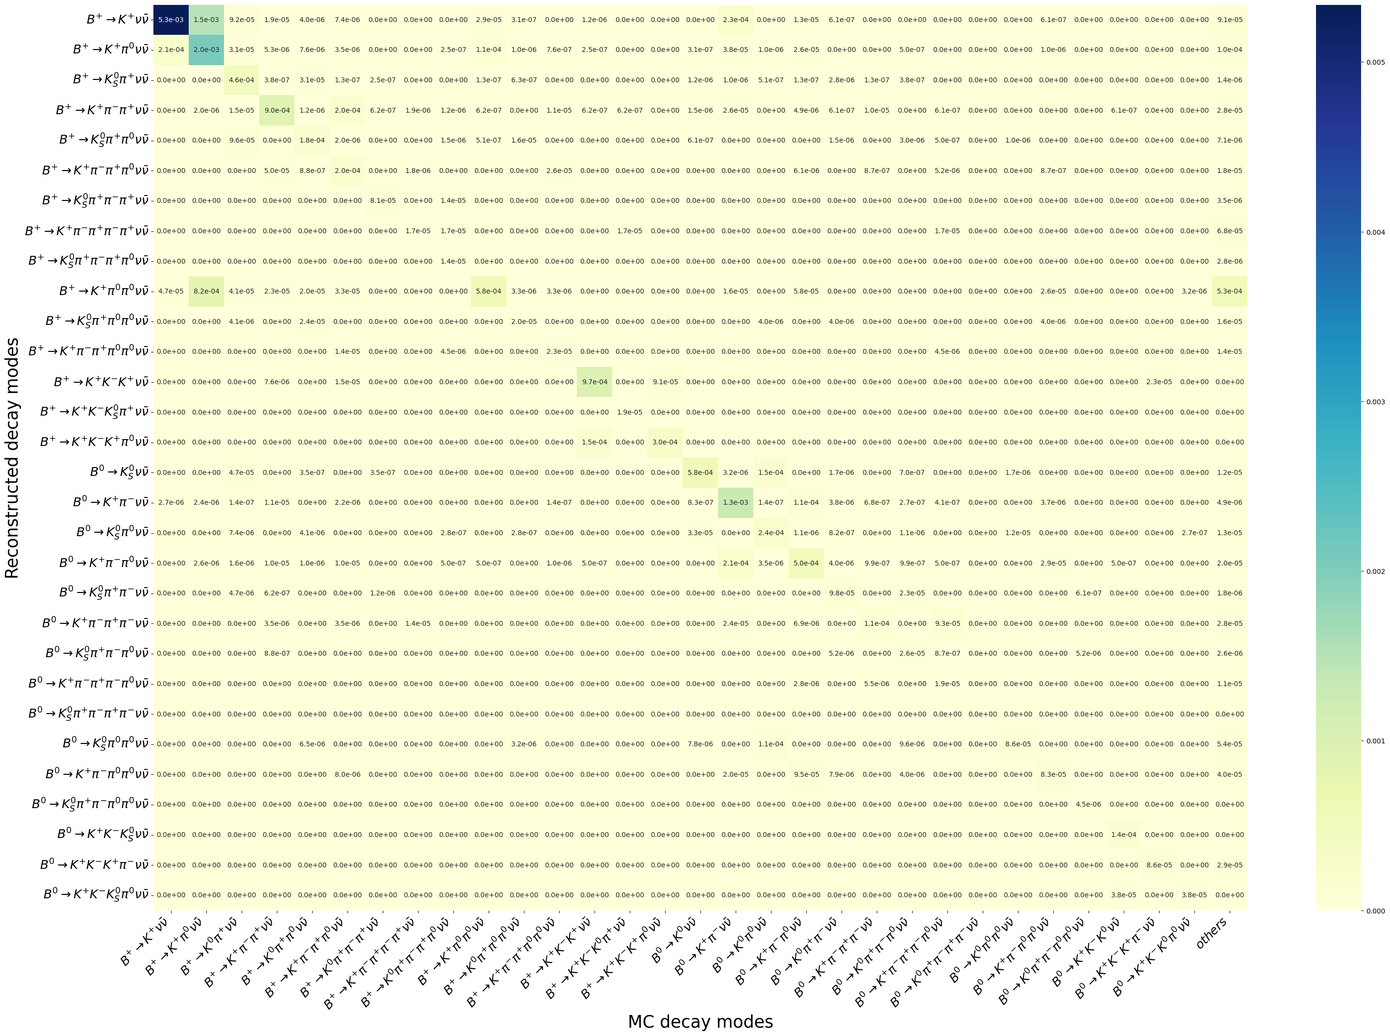
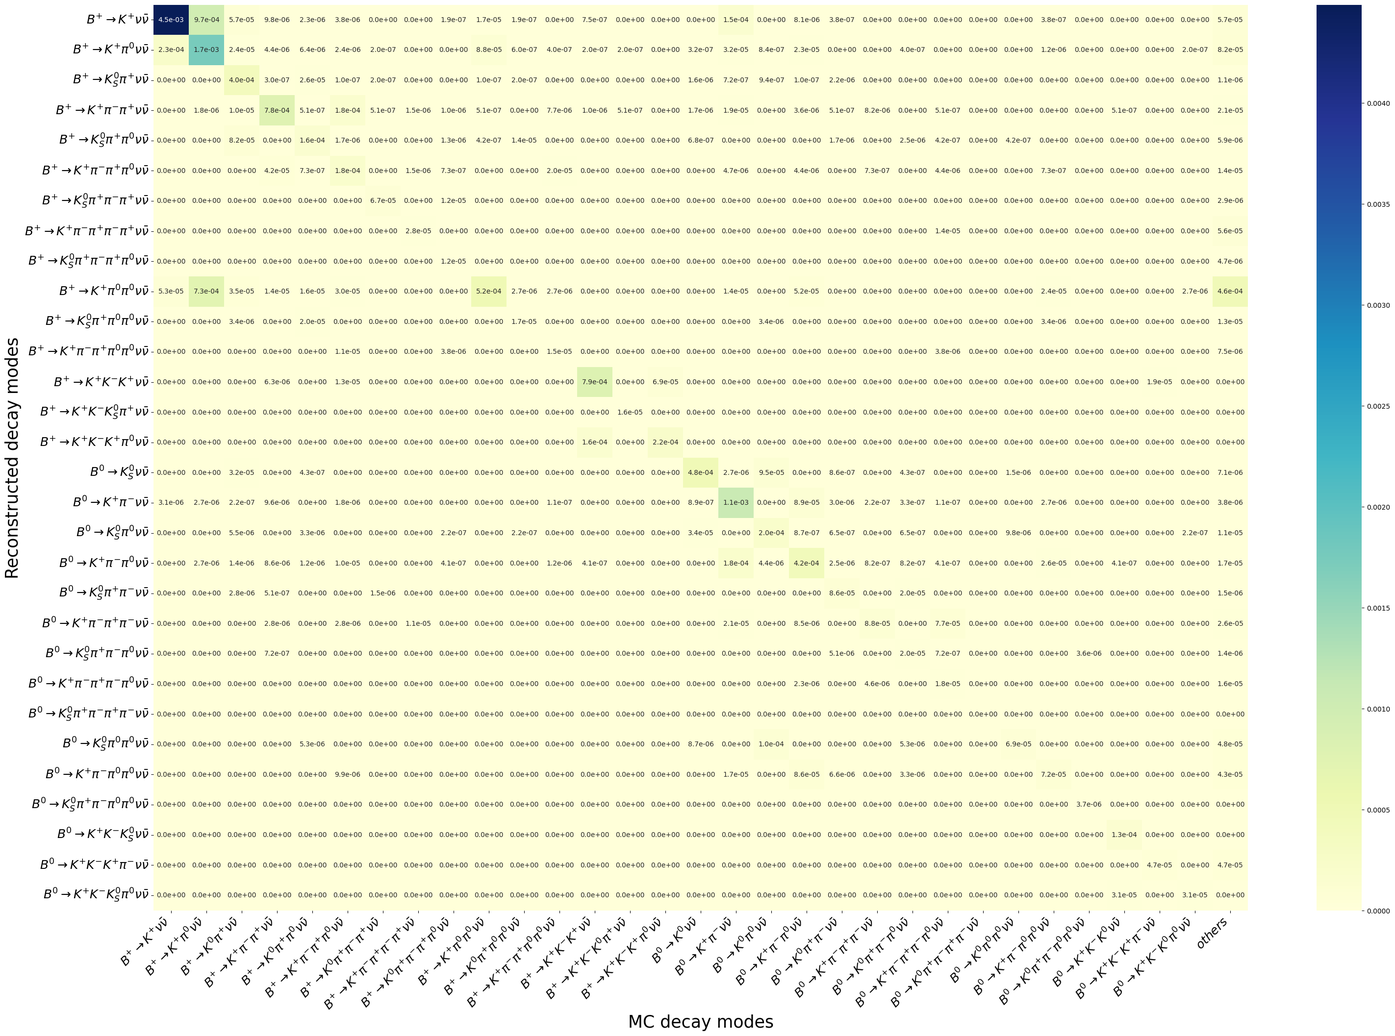
update THStack_plot

diff --git a/FastBDT/THStack_plot.c b/FastBDT/THStack_plot.c
@@ -14,47 +14,35 @@ revise void Loader::ConvertIntoSeparateDataFile(std::string output_name, double 
 # include <algorithm>
 # include <float.h>
 
-// arXiv:1409.4557v2
+// arXiv:1409.4557v2, PhysRevD.107.014511
 # define TB0 1.5195 // (Table. 1)
 # define TBp 1.6384 // (Table. 1)
-# define BR_Kplus_nunubar 0.00000398 // (eq. 10)
+# define BR_Kplus_nunubar 0.000005044 // Table VI = (5.044 +- 0.402) * 10^{-6}
 # define BR_K0star_nunubar 0.00000919 // (eq. 11)
-# define BR_K0_nunubar (BR_Kplus_nunubar*TB0/TBp) // under (eq. 15)
+# define BR_K0_nunubar (BR_Kplus_nunubar*TB0/TBp) // under (eq. 15). In Table VI = (4.6669 +- 0.3707) * 10^{-6}
 # define BR_Kplusstar_nunubar (BR_K0star_nunubar*TBp/TB0) // under (eq. 15)
 # define BR_Xs_nunubar 0.000029 // (eq. 23)
 # define BR_Xsu_nonresonant_nunubar (BR_Xs_nunubar - BR_Kplus_nunubar - BR_Kplusstar_nunubar)
 # define BR_Xsd_nonresonant_nunubar (BR_Xs_nunubar - BR_K0_nunubar - BR_K0star_nunubar)
 
-// https://confluence.desy.de/pages/viewpage.action?pageId=107054222
-# define N_BpBp_1invab 565400000.0
-# define N_B0B0_1invab 534600000.0
+// according to DIRAC
+# define N_BpBp_1invab 540000000.0
+# define N_B0B0_1invab 510000000.0
 
-# define N_Kplus_nunubar_1invab (2.0 * N_BpBp_1invab * BR_Kplus_nunubar)
-# define N_Kplusstar_nunubar_1invab (2.0 * N_BpBp_1invab * BR_Kplusstar_nunubar)
-# define N_Xsu_nonresonant_nunubar_1invab (2.0 * N_BpBp_1invab * BR_Xsu_nonresonant_nunubar)
-# define N_K0_nunubar_1invab (2.0 * N_B0B0_1invab * BR_K0_nunubar)
-# define N_K0star_nunubar_1invab (2.0 * N_B0B0_1invab * BR_K0star_nunubar)
-# define N_Xsd_nunubar_1invab (2.0 * N_B0B0_1invab * BR_Xsd_nonresonant_nunubar)
+# define BR_BpBp 0.514
+# define BR_B0B0 0.486
 
-/*
-// my MC sample number
-# define N_Kplus_nunubar 10000000.0
-# define N_K0_nunubar 10000000.0
-# define N_Kplusstar_nunubar 10000000.0
-# define N_K0star_nunubar 10000000.0
-# define N_Xsu_nonresonant_nunubar 50000000.0
-# define N_Xsd_nonresonant_nunubar 50000000.0
+// https://confluence.desy.de/pages/viewpage.action?spaceKey=BI&title=Conference+readiness
+# define N_BB_LS1 387100000.0 // NBB = (387.1 +/- 5.6) x 10^6
 
-// scale factor for each MC sample
-# define Scale_Kplus (N_Kplus_nunubar_1invab/N_Kplus_nunubar)
-# define Scale_Kplusstar (N_Kplusstar_nunubar_1invab/N_Kplusstar_nunubar)
-# define Scale_Xsu_nonresonant (N_Xsu_nonresonant_nunubar_1invab/N_Xsu_nonresonant_nunubar)
-# define Scale_K0 (N_K0_nunubar_1invab/N_K0_nunubar)
-# define Scale_K0star (N_K0star_nunubar_1invab/N_K0star_nunubar)
-# define Scale_Xsd_nonresonant (N_Xsd_nunubar_1invab/N_Xsd_nonresonant_nunubar)
-*/
+# define N_Kplus_nunubar_LS1 (2.0 * N_BB_LS1 * (BR_BpBp/(BR_BpBp+BR_B0B0)) * BR_Kplus_nunubar)
+# define N_Kplusstar_nunubar_LS1 (2.0 * N_BB_LS1 * (BR_BpBp/(BR_BpBp+BR_B0B0)) * BR_Kplusstar_nunubar)
+# define N_Xsu_nonresonant_nunubar_LS1 (2.0 * N_BB_LS1 * (BR_BpBp/(BR_BpBp+BR_B0B0)) * BR_Xsu_nonresonant_nunubar)
+# define N_K0_nunubar_LS1 (2.0 * N_BB_LS1 * (BR_B0B0/(BR_BpBp+BR_B0B0)) * BR_K0_nunubar)
+# define N_K0star_nunubar_LS1 (2.0 * N_BB_LS1 * (BR_B0B0/(BR_BpBp+BR_B0B0)) * BR_K0star_nunubar)
+# define N_Xsd_nunubar_LS1 (2.0 * N_BB_LS1 * (BR_B0B0/(BR_BpBp+BR_B0B0)) * BR_Xsd_nonresonant_nunubar)
 
-// SIGNAL MC sample number
+// SIGNAL MC sample number befor skimming
 # define N_Kplus_train 7039000.0
 # define N_K0_train 7166624.0
 # define N_Kplusstar_train 7039000.0
@@ -68,49 +56,49 @@ revise void Loader::ConvertIntoSeparateDataFile(std::string output_name, double 
 # define N_Xsu_nonresonant_test 14805000.0
 # define N_Xsd_nonresonant_test 15059570.0
 
-// scale factor for SIGNAL MC sample (364.436 - 2.763 = 361.673/fb)
-# define Scale_Kplus_train (0.361673 * N_Kplus_nunubar_1invab/N_Kplus_train)
-# define Scale_Kplusstar_train (0.361673 * N_Kplusstar_nunubar_1invab/N_Kplusstar_train)
-# define Scale_Xsu_nonresonant_train (0.361673 * N_Xsu_nonresonant_nunubar_1invab/N_Xsu_nonresonant_train)
-# define Scale_K0_train (0.361673 * N_K0_nunubar_1invab/N_K0_train)
-# define Scale_K0star_train (0.361673 * N_K0star_nunubar_1invab/N_K0star_train)
-# define Scale_Xsd_nonresonant_train (0.361673 * N_Xsd_nunubar_1invab/N_Xsd_nonresonant_train)
-# define Scale_Kplus_test (0.361673 * N_Kplus_nunubar_1invab/N_Kplus_test)
-# define Scale_Kplusstar_test (0.361673 * N_Kplusstar_nunubar_1invab/N_Kplusstar_test)
-# define Scale_Xsu_nonresonant_test (0.361673 * N_Xsu_nonresonant_nunubar_1invab/N_Xsu_nonresonant_test)
-# define Scale_K0_test (0.361673 * N_K0_nunubar_1invab/N_K0_test)
-# define Scale_K0star_test (0.361673 * N_K0star_nunubar_1invab/N_K0star_test)
-# define Scale_Xsd_nonresonant_test (0.361673 * N_Xsd_nunubar_1invab/N_Xsd_nonresonant_test)
+// scale factor for SIGNAL MC sample until LS1
+# define Scale_Kplus_train (N_Kplus_nunubar_LS1/N_Kplus_train)
+# define Scale_Kplusstar_train (N_Kplusstar_nunubar_LS1/N_Kplusstar_train)
+# define Scale_Xsu_nonresonant_train (N_Xsu_nonresonant_nunubar_LS1/N_Xsu_nonresonant_train)
+# define Scale_K0_train (N_K0_nunubar_LS1/N_K0_train)
+# define Scale_K0star_train (N_K0star_nunubar_LS1/N_K0star_train)
+# define Scale_Xsd_nonresonant_train (N_Xsd_nunubar_LS1/N_Xsd_nonresonant_train)
+# define Scale_Kplus_test (N_Kplus_nunubar_LS1/N_Kplus_test)
+# define Scale_Kplusstar_test (N_Kplusstar_nunubar_LS1/N_Kplusstar_test)
+# define Scale_Xsu_nonresonant_test (N_Xsu_nonresonant_nunubar_LS1/N_Xsu_nonresonant_test)
+# define Scale_K0_test (N_K0_nunubar_LS1/N_K0_test)
+# define Scale_K0star_test (N_K0star_nunubar_LS1/N_K0star_test)
+# define Scale_Xsd_nonresonant_test (N_Xsd_nunubar_LS1/N_Xsd_nonresonant_test)
 
 // BKG MC sample number (0.8/ab for BB, 1.0/ab for qq)
-# define N_CHG_train 32042497.0
-# define N_MIX_train 24693710.0
-# define N_UUBAR_train 94447089.0
-# define N_DDBAR_train 22664556.0
-# define N_SSBAR_train 19244661.0
-# define N_CHARM_train 107541168.0
-# define N_CHG_test 48052238.0
-# define N_MIX_test 37030486.0
-# define N_UUBAR_test 141671998.0
-# define N_DDBAR_test 34114182.0
-# define N_SSBAR_test 28859338.0
-# define N_CHARM_test 161280679.0
+# define N_CHG_test 32042497.0
+# define N_MIX_test 24693710.0
+# define N_UUBAR_test 94447089.0
+# define N_DDBAR_test 22664556.0
+# define N_SSBAR_test 19244661.0
+# define N_CHARM_test 107541168.0
+# define N_CHG_train 48052238.0
+# define N_MIX_train 37030486.0
+# define N_UUBAR_train 141671998.0
+# define N_DDBAR_train 34114182.0
+# define N_SSBAR_train 28859338.0
+# define N_CHARM_train 161280679.0
 
-// new scale factor for BKG MC sample with additional 1/ab (364.436 - 2.763 = 361.673/fb)
-# define Scale_CHG_train (0.361673/((N_CHG_train/(N_CHG_train + N_CHG_test))*0.8+1.0))
-# define Scale_MIX_train (0.361673/((N_MIX_train/(N_MIX_train + N_MIX_test))*0.8+1.0))
+// new scale factor for BKG MC sample with additional 1/ab (364.436 - 2.763 = 361.673/fb), until LS1
+# define Scale_CHG_train ((N_BB_LS1* (BR_BpBp / (BR_BpBp + BR_B0B0))) / (0.8 * N_BpBp_1invab * (N_CHG_train / (N_CHG_train + N_CHG_test)) + N_BpBp_1invab))
+# define Scale_MIX_train ((N_BB_LS1* (BR_B0B0 / (BR_BpBp + BR_B0B0))) / (0.8 * N_B0B0_1invab * (N_MIX_train / (N_MIX_train + N_MIX_test)) + N_B0B0_1invab))
 # define Scale_UUBAR_train (0.361673/((N_UUBAR_train/(N_UUBAR_train + N_UUBAR_test))*1.0))
 # define Scale_DDBAR_train (0.361673/((N_DDBAR_train/(N_DDBAR_train + N_DDBAR_test))*1.0))
 # define Scale_SSBAR_train (0.361673/((N_SSBAR_train/(N_SSBAR_train + N_SSBAR_test))*1.0))
 # define Scale_CHARM_train (0.361673/((N_CHARM_train/(N_CHARM_train + N_CHARM_test))*1.0))
-# define Scale_CHG_test (0.361673/((N_CHG_test/(N_CHG_train + N_CHG_test))*0.8+1.0))
-# define Scale_MIX_test (0.361673/((N_MIX_test/(N_MIX_train + N_MIX_test))*0.8+1.0))
+# define Scale_CHG_test ((N_BB_LS1* (BR_BpBp / (BR_BpBp + BR_B0B0))) / (0.8 * N_BpBp_1invab * (N_CHG_test / (N_CHG_train + N_CHG_test)) + N_BpBp_1invab))
+# define Scale_MIX_test ((N_BB_LS1* (BR_B0B0 / (BR_BpBp + BR_B0B0))) / (0.8 * N_B0B0_1invab * (N_MIX_test / (N_MIX_train + N_MIX_test)) + N_B0B0_1invab))
 # define Scale_UUBAR_test (0.361673/((N_UUBAR_test/(N_UUBAR_train + N_UUBAR_test))*1.0))
 # define Scale_DDBAR_test (0.361673/((N_DDBAR_test/(N_DDBAR_train + N_DDBAR_test))*1.0))
 # define Scale_SSBAR_test (0.361673/((N_SSBAR_test/(N_SSBAR_train + N_SSBAR_test))*1.0))
 # define Scale_CHARM_test (0.361673/((N_CHARM_test/(N_CHARM_train + N_CHARM_test))*1.0))
 
-# define Nvar_num 90
+# define Nvar_num 116
 
 bool hasEnding(std::string const& fullString, std::string const& ending) {
     if (fullString.length() >= ending.length()) {
@@ -234,18 +222,18 @@ void LetsFill(const char* dirname, std::vector<std::string> variable_names, std:
 
 void THStack_plot() {
 
-    const char* Knunu_dirname = "/home/jwpark/storage/BKG_gbasf2/Nazrin/SIGNAL_analysis/train_v000/final_output";
-    const char* Kstarnunu_dirname = "/home/jwpark/storage/BKG_gbasf2/Nazrin/SIGNAL_analysis/train_v000/final_output";
-    const char* Xsununu_dirname = "/home/jwpark/storage/BKG_gbasf2/Nazrin/SIGNAL_analysis/train_v000/final_output";
-    const char* K0nunu_dirname = "/home/jwpark/storage/BKG_gbasf2/Nazrin/SIGNAL_analysis/train_v000/final_output";
-    const char* K0starnunu_dirname = "/home/jwpark/storage/BKG_gbasf2/Nazrin/SIGNAL_analysis/train_v000/final_output";
-    const char* Xsdnunu_dirname = "/home/jwpark/storage/BKG_gbasf2/Nazrin/SIGNAL_analysis/train_v000/final_output";
-    const char* CHG_dirname = "/home/jwpark/storage/BKG_gbasf2/Nazrin/CHG_analysis/train_v000/final_output";
-    const char* MIX_dirname = "/home/jwpark/storage/BKG_gbasf2/Nazrin/MIX_analysis/train_v000/final_output";
-    const char* UUBAR_dirname = "/home/jwpark/storage/BKG_gbasf2/Nazrin/UUBAR_analysis/train_v000/final_output";
-    const char* DDBAR_dirname = "/home/jwpark/storage/BKG_gbasf2/Nazrin/DDBAR_analysis/train_v000/final_output";
-    const char* SSBAR_dirname = "/home/jwpark/storage/BKG_gbasf2/Nazrin/SSBAR_analysis/train_v000/final_output";
-    const char* CHARM_dirname = "/home/jwpark/storage/BKG_gbasf2/Nazrin/CHARM_analysis/train_v000/final_output";
+    const char* Knunu_dirname = "/home/jwpark/storage/BKG_gbasf2/Nazrin/SIGNAL_analysis/train_v009/final_output";
+    const char* Kstarnunu_dirname = "/home/jwpark/storage/BKG_gbasf2/Nazrin/SIGNAL_analysis/train_v009/final_output";
+    const char* Xsununu_dirname = "/home/jwpark/storage/BKG_gbasf2/Nazrin/SIGNAL_analysis/train_v009/final_output";
+    const char* K0nunu_dirname = "/home/jwpark/storage/BKG_gbasf2/Nazrin/SIGNAL_analysis/train_v009/final_output";
+    const char* K0starnunu_dirname = "/home/jwpark/storage/BKG_gbasf2/Nazrin/SIGNAL_analysis/train_v009/final_output";
+    const char* Xsdnunu_dirname = "/home/jwpark/storage/BKG_gbasf2/Nazrin/SIGNAL_analysis/train_v009/final_output";
+    const char* CHG_dirname = "/home/jwpark/storage/BKG_gbasf2/Nazrin/CHG_analysis/train_v009/final_output";
+    const char* MIX_dirname = "/home/jwpark/storage/BKG_gbasf2/Nazrin/MIX_analysis/train_v009/final_output";
+    const char* UUBAR_dirname = "/home/jwpark/storage/BKG_gbasf2/Nazrin/UUBAR_analysis/train_v009/final_output";
+    const char* DDBAR_dirname = "/home/jwpark/storage/BKG_gbasf2/Nazrin/DDBAR_analysis/train_v009/final_output";
+    const char* SSBAR_dirname = "/home/jwpark/storage/BKG_gbasf2/Nazrin/SSBAR_analysis/train_v009/final_output";
+    const char* CHARM_dirname = "/home/jwpark/storage/BKG_gbasf2/Nazrin/CHARM_analysis/train_v009/final_output";
 
     std::vector<std::string> variable_names;
     std::vector<std::string> branch_names;
@@ -253,45 +241,44 @@ void THStack_plot() {
     variable_names.push_back("Btag_chiProb"); branch_names.push_back("Btag");
     variable_names.push_back("Btag_extraInfo_SignalProbability"); branch_names.push_back("Btag");
     variable_names.push_back("thrustAxisCosTheta"); branch_names.push_back("Upsilon");
-    variable_names.push_back("missingMomentumOfEvent"); branch_names.push_back("Upsilon");
     variable_names.push_back("missingMomentumOfEvent_theta"); branch_names.push_back("Upsilon");
+    variable_names.push_back("missingEnergyOfEventCMS"); branch_names.push_back("Upsilon");
+    variable_names.push_back("missingMomentumOfEvent"); branch_names.push_back("Upsilon");
     variable_names.push_back("Btag_deltaE"); branch_names.push_back("Btag");
+    variable_names.push_back("Btag_Mbc"); branch_names.push_back("Btag");
     variable_names.push_back("Btag_useCMSFrame_theta"); branch_names.push_back("Btag");
+    variable_names.push_back("Btag_R2"); branch_names.push_back("Btag");
     variable_names.push_back("Btag_cosTBTO"); branch_names.push_back("Btag");
+    variable_names.push_back("Btag_KSFWVariables_et"); branch_names.push_back("Btag");
+    variable_names.push_back("Btag_KSFWVariables_mm2"); branch_names.push_back("Btag");
     variable_names.push_back("Btag_KSFWVariables_hso00"); branch_names.push_back("Btag");
     variable_names.push_back("Btag_KSFWVariables_hso01"); branch_names.push_back("Btag");
     variable_names.push_back("Btag_KSFWVariables_hso02"); branch_names.push_back("Btag");
     variable_names.push_back("Btag_KSFWVariables_hso03"); branch_names.push_back("Btag");
     variable_names.push_back("Btag_KSFWVariables_hso04"); branch_names.push_back("Btag");
     variable_names.push_back("Btag_KSFWVariables_hso10"); branch_names.push_back("Btag");
+    variable_names.push_back("Btag_KSFWVariables_hso12"); branch_names.push_back("Btag");
     variable_names.push_back("Btag_KSFWVariables_hso14"); branch_names.push_back("Btag");
+    variable_names.push_back("Btag_KSFWVariables_hso20"); branch_names.push_back("Btag");
+    variable_names.push_back("Btag_KSFWVariables_hso22"); branch_names.push_back("Btag");
     variable_names.push_back("Btag_KSFWVariables_hso24"); branch_names.push_back("Btag");
+    variable_names.push_back("Btag_KSFWVariables_hoo0"); branch_names.push_back("Btag");
     variable_names.push_back("Btag_KSFWVariables_hoo1"); branch_names.push_back("Btag");
     variable_names.push_back("Btag_KSFWVariables_hoo2"); branch_names.push_back("Btag");
     variable_names.push_back("Btag_KSFWVariables_hoo3"); branch_names.push_back("Btag");
     variable_names.push_back("Btag_KSFWVariables_hoo4"); branch_names.push_back("Btag");
+    variable_names.push_back("Btag_useCMSFrame_phi"); branch_names.push_back("Btag");
     variable_names.push_back("roeEextra__bocleanMask__bc"); branch_names.push_back("Upsilon");
     variable_names.push_back("extraInfo__boEeclv133__bc"); branch_names.push_back("Upsilon");
     variable_names.push_back("extraInfo__boNgammav133__bc"); branch_names.push_back("Upsilon");
     variable_names.push_back("Btag_thrustOm"); branch_names.push_back("Btag");
     variable_names.push_back("nParticlesInList__boe__pl__clElectronFBDT__bc"); branch_names.push_back("Upsilon");
     variable_names.push_back("nParticlesInList__bomu__pl__clMuonFBDT__bc"); branch_names.push_back("Upsilon");
+    variable_names.push_back("nParticlesInList__boe__pl__clElectronFBDT_loose__bc"); branch_names.push_back("Upsilon");
+    variable_names.push_back("nParticlesInList__bomu__pl__clMuonFBDT_loose__bc"); branch_names.push_back("Upsilon");
+    variable_names.push_back("nParticlesInList__boe__pl__clElectronFBDT_tight__bc"); branch_names.push_back("Upsilon");
     variable_names.push_back("nParticlesInList__bomu__pl__clMuonFBDT_tight__bc"); branch_names.push_back("Upsilon");
-    variable_names.push_back("Bsig_cosTBTO"); branch_names.push_back("Bsig");
-    variable_names.push_back("Bsig_KSFWVariables_hso00"); branch_names.push_back("Bsig");
-    variable_names.push_back("Bsig_KSFWVariables_hso01"); branch_names.push_back("Bsig");
-    variable_names.push_back("Bsig_KSFWVariables_hso02"); branch_names.push_back("Bsig");
-    variable_names.push_back("Bsig_KSFWVariables_hso03"); branch_names.push_back("Bsig");
-    variable_names.push_back("Bsig_KSFWVariables_hso04"); branch_names.push_back("Bsig");
-    variable_names.push_back("Bsig_KSFWVariables_hso10"); branch_names.push_back("Bsig");
-    variable_names.push_back("Bsig_KSFWVariables_hso14"); branch_names.push_back("Bsig");
-    variable_names.push_back("Bsig_KSFWVariables_hso24"); branch_names.push_back("Bsig");
-    variable_names.push_back("Bsig_KSFWVariables_hoo1"); branch_names.push_back("Bsig");
-    variable_names.push_back("Bsig_KSFWVariables_hoo2"); branch_names.push_back("Bsig");
-    variable_names.push_back("Bsig_KSFWVariables_hoo3"); branch_names.push_back("Bsig");
-    variable_names.push_back("Bsig_KSFWVariables_hoo4"); branch_names.push_back("Bsig");
     variable_names.push_back("Bsig_M"); branch_names.push_back("Bsig");
-    variable_names.push_back("Bsig_useCMSFrame_pt"); branch_names.push_back("Bsig");
     variable_names.push_back("Bsig_useCMSFrame_p"); branch_names.push_back("Bsig");
     variable_names.push_back("Bsig_daughter_0_extraInfo_Dc_pValue_med"); branch_names.push_back("Bsig");
     variable_names.push_back("Bsig_daughter_0_extraInfo_Dc_pValue_std"); branch_names.push_back("Bsig");
@@ -305,6 +292,32 @@ void THStack_plot() {
     variable_names.push_back("Bsig_daughter_0_extraInfo_D0simpleveto_dr"); branch_names.push_back("Bsig");
     variable_names.push_back("Bsig_daughter_0_extraInfo_D0simpleveto_dz"); branch_names.push_back("Bsig");
     variable_names.push_back("Bsig_daughter_0_extraInfo_D0simpleveto_M"); branch_names.push_back("Bsig");
+    variable_names.push_back("Bsig_thrustBm"); branch_names.push_back("Bsig");
+    variable_names.push_back("Bsig_thrustOm"); branch_names.push_back("Bsig");
+    variable_names.push_back("Bsig_cosTBTO"); branch_names.push_back("Bsig");
+    variable_names.push_back("Bsig_cosTBz"); branch_names.push_back("Bsig");
+    variable_names.push_back("Bsig_KSFWVariables_et"); branch_names.push_back("Bsig");
+    variable_names.push_back("Bsig_KSFWVariables_mm2"); branch_names.push_back("Bsig");
+    variable_names.push_back("Bsig_KSFWVariables_hso00"); branch_names.push_back("Bsig");
+    variable_names.push_back("Bsig_KSFWVariables_hso01"); branch_names.push_back("Bsig");
+    variable_names.push_back("Bsig_KSFWVariables_hso02"); branch_names.push_back("Bsig");
+    variable_names.push_back("Bsig_KSFWVariables_hso03"); branch_names.push_back("Bsig");
+    variable_names.push_back("Bsig_KSFWVariables_hso04"); branch_names.push_back("Bsig");
+    variable_names.push_back("Bsig_KSFWVariables_hso10"); branch_names.push_back("Bsig");
+    variable_names.push_back("Bsig_KSFWVariables_hso12"); branch_names.push_back("Bsig");
+    variable_names.push_back("Bsig_KSFWVariables_hso14"); branch_names.push_back("Bsig");
+    variable_names.push_back("Bsig_KSFWVariables_hso20"); branch_names.push_back("Bsig");
+    variable_names.push_back("Bsig_KSFWVariables_hso22"); branch_names.push_back("Bsig");
+    variable_names.push_back("Bsig_KSFWVariables_hso24"); branch_names.push_back("Bsig");
+    variable_names.push_back("Bsig_KSFWVariables_hoo0"); branch_names.push_back("Bsig");
+    variable_names.push_back("Bsig_KSFWVariables_hoo1"); branch_names.push_back("Bsig");
+    variable_names.push_back("Bsig_KSFWVariables_hoo2"); branch_names.push_back("Bsig");
+    variable_names.push_back("Bsig_KSFWVariables_hoo3"); branch_names.push_back("Bsig");
+    variable_names.push_back("Bsig_KSFWVariables_hoo4"); branch_names.push_back("Bsig");
+    variable_names.push_back("foxWolframR1"); branch_names.push_back("Upsilon");
+    variable_names.push_back("foxWolframR2"); branch_names.push_back("Upsilon");
+    variable_names.push_back("foxWolframR3"); branch_names.push_back("Upsilon");
+    variable_names.push_back("foxWolframR4"); branch_names.push_back("Upsilon");
     variable_names.push_back("cleoConeThrust0"); branch_names.push_back("Upsilon");
     variable_names.push_back("cleoConeThrust1"); branch_names.push_back("Upsilon");
     variable_names.push_back("cleoConeThrust2"); branch_names.push_back("Upsilon");
@@ -314,14 +327,11 @@ void THStack_plot() {
     variable_names.push_back("cleoConeThrust6"); branch_names.push_back("Upsilon");
     variable_names.push_back("cleoConeThrust7"); branch_names.push_back("Upsilon");
     variable_names.push_back("cleoConeThrust8"); branch_names.push_back("Upsilon");
+    variable_names.push_back("harmonicMomentThrust0"); branch_names.push_back("Upsilon");
     variable_names.push_back("harmonicMomentThrust1"); branch_names.push_back("Upsilon");
     variable_names.push_back("harmonicMomentThrust2"); branch_names.push_back("Upsilon");
     variable_names.push_back("harmonicMomentThrust3"); branch_names.push_back("Upsilon");
     variable_names.push_back("harmonicMomentThrust4"); branch_names.push_back("Upsilon");
-    variable_names.push_back("foxWolframR1"); branch_names.push_back("Upsilon");
-    variable_names.push_back("foxWolframR2"); branch_names.push_back("Upsilon");
-    variable_names.push_back("foxWolframR3"); branch_names.push_back("Upsilon");
-    variable_names.push_back("foxWolframR4"); branch_names.push_back("Upsilon");
     variable_names.push_back("sphericity"); branch_names.push_back("Upsilon");
     variable_names.push_back("aplanarity"); branch_names.push_back("Upsilon");
     variable_names.push_back("Btag_thrustBm"); branch_names.push_back("Btag");
@@ -339,6 +349,10 @@ void THStack_plot() {
     variable_names.push_back("Bsig_daughter_0_extraInfo_mychiProb"); branch_names.push_back("Bsig");
     variable_names.push_back("Bsig_daughter_0_extraInfo_mydr"); branch_names.push_back("Bsig");
     variable_names.push_back("Bsig_daughter_0_extraInfo_mydz"); branch_names.push_back("Bsig");
+    variable_names.push_back("nROE_KLMClusters"); branch_names.push_back("Upsilon");
+    variable_names.push_back("nROE_ECLClusters__bocleanMask__bc"); branch_names.push_back("Upsilon");
+    variable_names.push_back("nROE_ParticlesInList__bopi0__clmyneutralPion__bc"); branch_names.push_back("Upsilon");
+    variable_names.push_back("nROE_ParticlesInList__bogamma__clmygamma__bc"); branch_names.push_back("Upsilon");
 
     int Nvar = static_cast<int>(variable_names.size());
     if (Nvar != Nvar_num) exit(1);

diff --git a/Belle2/Efficiency_Matrix.py b/Belle2/Efficiency_Matrix.py
@@ -78,37 +78,37 @@ gen_list = [r"$B^{+}\rightarrow K^{+}\nu\bar{\nu}$",
             ]
 
 correction = []
-correction.append(1350.0)
-correction.append(1651.6)
-correction.append(3300.4)
-correction.append(673.9)
-correction.append(825.3)
-correction.append(473.3)
-correction.append(119.1)
-correction.append(24.6)
-correction.append(148.2)
-correction.append(127.6)
-correction.append(102.9)
-correction.append(91.8)
-correction.append(54.8)
-correction.append(21.7)
-correction.append(11.0)
-correction.append(1184.0)
-correction.append(3034.7)
-correction.append(1515.9)
-correction.append(835.5)
-correction.append(677.4)
-correction.append(120.5)
-correction.append(475.9)
-correction.append(149.8)
-correction.append(25.0)
-correction.append(129.2)
-correction.append(104.4)
-correction.append(92.4)
-correction.append(54.9)
-correction.append(14.5)
-correction.append(10.9)
-correction.append(1738.5)
+correction.append(2007.3)
+correction.append(1893.5)
+correction.append(3783.7)
+correction.append(734.9)
+correction.append(899.9)
+correction.append(516.1)
+correction.append(129.8)
+correction.append(26.8)
+correction.append(161.6)
+correction.append(139.1)
+correction.append(112.3)
+correction.append(100.1)
+correction.append(59.8)
+correction.append(23.6)
+correction.append(12.0)
+correction.append(1760.2)
+correction.append(3482.8)
+correction.append(1739.7)
+correction.append(920.1)
+correction.append(746.0)
+correction.append(132.7)
+correction.append(524.0)
+correction.append(164.9)
+correction.append(27.5)
+correction.append(142.3)
+correction.append(114.9)
+correction.append(101.8)
+correction.append(60.4)
+correction.append(16.0)
+correction.append(12.0)
+correction.append(1905.9)
 
 for i in range(0,30):
     for j in range(0,31):

diff --git a/HistFactory/Signal_yield_fit_BDT_Rarity_HistFactory.C b/HistFactory/Signal_yield_fit_BDT_Rarity_HistFactory.C
@@ -3027,10 +3027,6 @@ void Signal_yield_fit_BDT_Rarity_HistFactory()
         GetNominalPDFs(MC_dirname_Xsdnunu, Signal_Kstarff_array[i], "Bzero", Scale_Xsd_nonresonant_test * non_res_Xsd_correction_factor, "otherwise");
     }
 
-    // get fraction uncertainty pdfs
-    const double total_Xs_Num_plus = Lumi_validation_MC * (2.0 * N_BpBp_1invab * (BR_Xs_nunubar + Sigma_BR_Xs_nunubar) + 2.0 * N_B0B0_1invab * (BR_Xs_nunubar + Sigma_BR_Xs_nunubar));
-    const double total_Xs_Num_minus = Lumi_validation_MC * (2.0 * N_BpBp_1invab * (BR_Xs_nunubar - Sigma_BR_Xs_nunubar) + 2.0 * N_B0B0_1invab * (BR_Xs_nunubar - Sigma_BR_Xs_nunubar));
-
     GetNominalPDFs(MC_dirname_Knunu, Signal_Kfrac_p, "Bplus", Scale_Kplus_test * ((BR_Kplus_nunubar + Sigma_BR_Kplus_nunubar) / BR_Kplus_nunubar), "B2Knunu");
     GetNominalPDFs(MC_dirname_Kstarnunu, Signal_Kfrac_p, "Bplus", Scale_Kplusstar_test, "otherwise");
     GetNominalPDFs(MC_dirname_Xsununu, Signal_Kfrac_p, "Bplus", Scale_Xsu_nonresonant_test * ((BR_Xsu_nonresonant_nunubar - Sigma_BR_Kplus_nunubar) / BR_Xsu_nonresonant_nunubar), "otherwise");

diff --git a/matlab/pca_PID.m b/matlab/pca_PID.m
@@ -1,8 +1,8 @@
 clear all
 format long
 
-N_total_bins = 56;
-N_selected_vectors = 20;
+N_total_bins = 42;
+N_selected_vectors = 17;
 
 % Kaon ID
 KIDfileID = fopen('KID_toys.txt','r');

diff --git a/matlab/pca_BR.m b/matlab/pca_BR.m
@@ -1,8 +1,8 @@
 clear all
 format long
 
-N_total_bins = 16;
-N_selected_vectors = 7;
+N_total_bins = 12;
+N_selected_vectors = 5;
 
 % BR
 BRfileID = fopen('BR_toys.txt','r');
